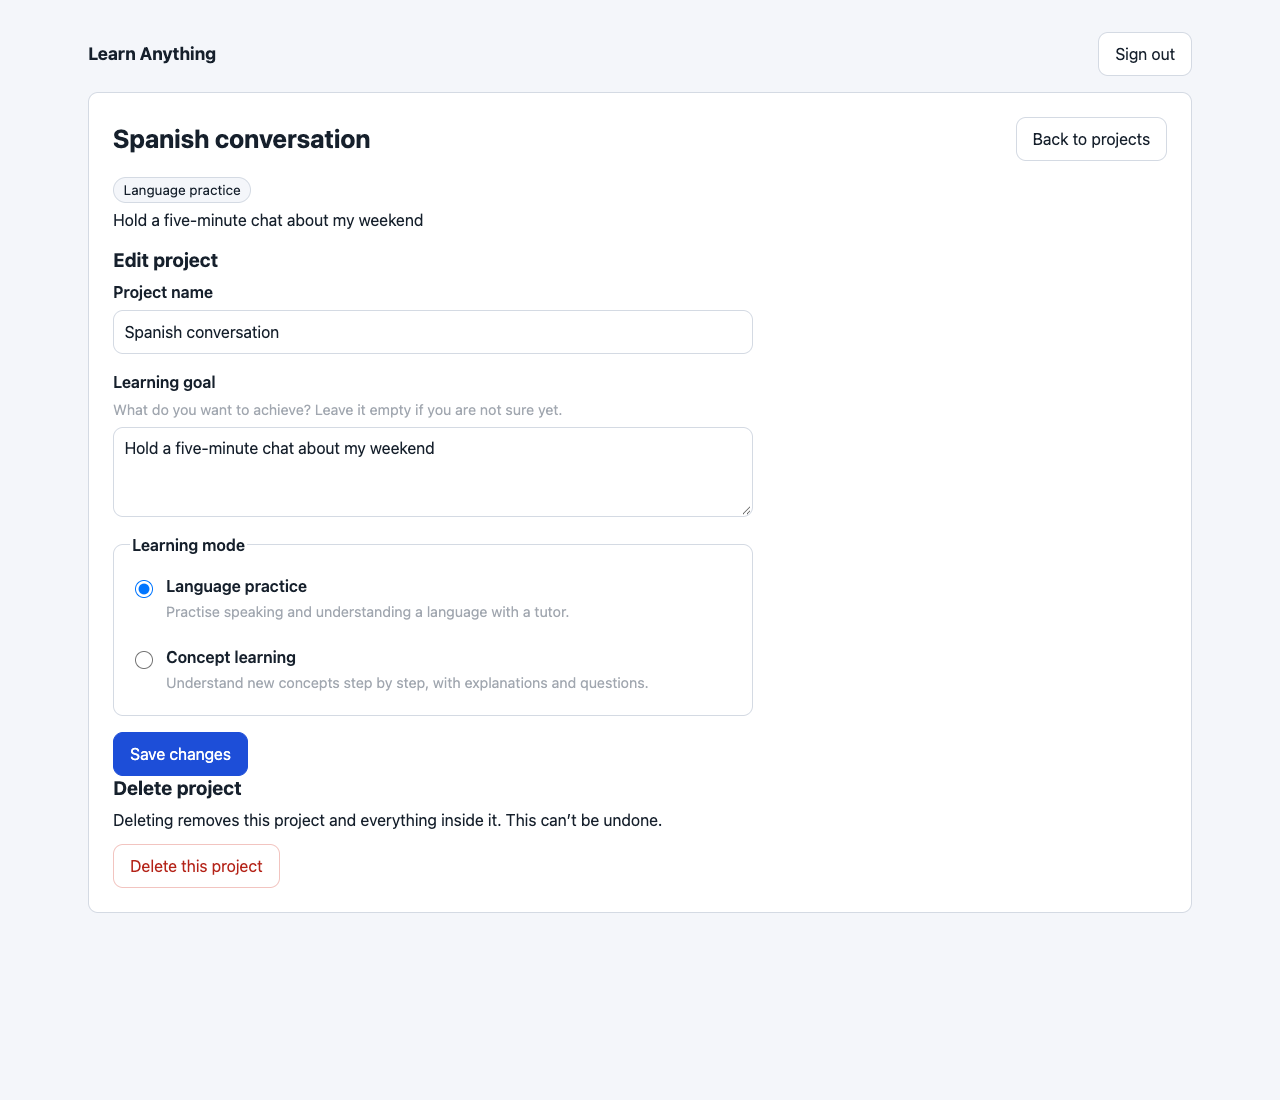
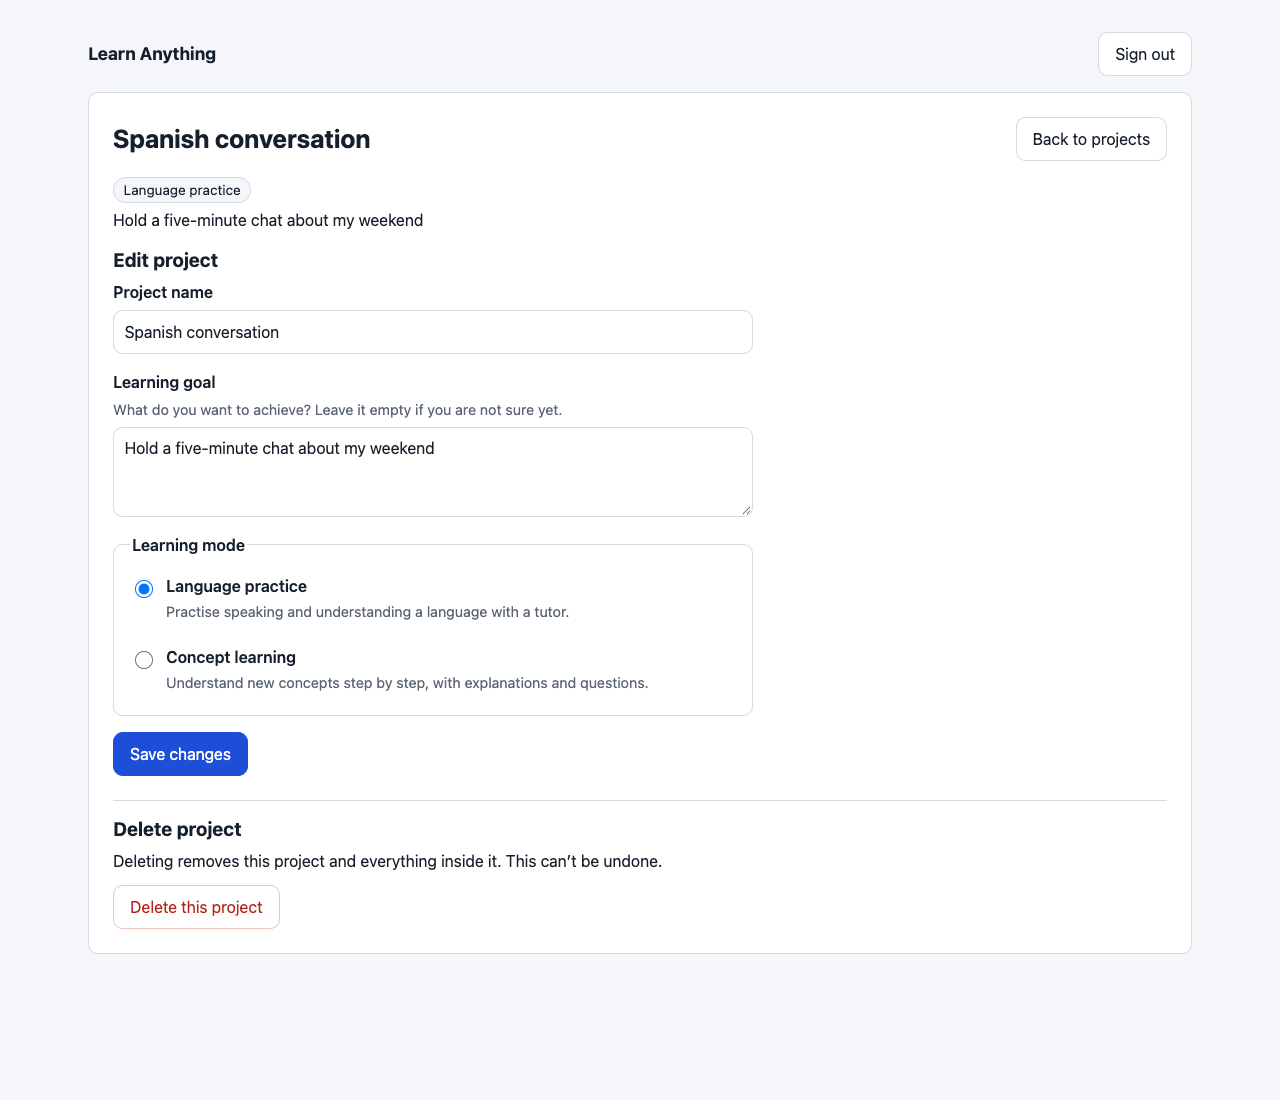
style: raise hint contrast to WCAG AA and separate the delete section
--ink-soft becomes the opaque #5a6473 (5.99:1 on white, 5.54:1 on the sunken surface, guarded by a contrast test) and the Delete-project heading moves into a bordered .danger-zone block so it is no longer cramped against the edit form. Synthetic preview screenshots in docs/evidence/s21 are refreshed.

Changed region(s): [[0.0938, 0.7109, 0.5, 0.8345], [0.125, 0.6182, 0.5, 0.6491], [0.25, 0.3709, 0.3125, 0.4018]]

diff --git a/packages/app/tests/style-contrast.test.ts b/packages/app/tests/style-contrast.test.ts
@@ -1,0 +1,42 @@
+import { readFileSync } from "node:fs";
+import { dirname, join } from "node:path";
+import { fileURLToPath } from "node:url";
+
+import { expect, test } from "vitest";
+
+const css = readFileSync(join(dirname(fileURLToPath(import.meta.url)), "..", "src", "styles.css"), "utf8");
+
+function variable(name: string): string {
+  const match = new RegExp(`--${name}:\\s*([^;]+);`).exec(css);
+  if (match === null) throw new Error(`styles.css is missing --${name}`);
+  return match[1].trim();
+}
+
+function toRgb(value: string): [number, number, number] {
+  const hex = /^#([0-9a-f]{6})$/i.exec(value);
+  if (hex === null) throw new Error(`expected one opaque 6-digit colour, got "${value}" (alpha would silently weaken contrast)`);
+  const packed = Number.parseInt(hex[1], 16);
+  return [(packed >> 16) & 255, (packed >> 8) & 255, packed & 255];
+}
+
+function luminance(rgb: [number, number, number]): number {
+  const channel = (value: number): number => {
+    const c = value / 255;
+    return c <= 0.03928 ? c / 12.92 : ((c + 0.055) / 1.055) ** 2.4;
+  };
+  return 0.2126 * channel(rgb[0]) + 0.7152 * channel(rgb[1]) + 0.0722 * channel(rgb[2]);
+}
+
+function contrast(a: string, b: string): number {
+  const la = luminance(toRgb(a));
+  const lb = luminance(toRgb(b));
+  const [high, low] = la > lb ? [la, lb] : [lb, la];
+  return (high + 0.05) / (low + 0.05);
+}
+
+test("hint text meets WCAG AA (>= 4.5:1) on every surface it sits on", () => {
+  const hint = variable("ink-soft");
+  for (const surface of ["surface", "surface-sunken"]) {
+    expect(contrast(hint, variable(surface)), `--ink-soft on --${surface}`).toBeGreaterThanOrEqual(4.5);
+  }
+});

diff --git a/packages/app/src/screens/ProjectDetail.tsx b/packages/app/src/screens/ProjectDetail.tsx
@@ -142,18 +142,20 @@ export function ProjectDetail({ id }: { id: string }) {
         </p>
       )}
 
-      <h2>Delete project</h2>
-      <p className="screen-intro">Deleting removes this project and everything inside it. This can’t be undone.</p>
-      <button
-        type="button"
-        className="button button-danger"
-        onClick={() => {
-          setDeleteError(null);
-          setDeleteOpen(true);
-        }}
-      >
-        Delete this project
-      </button>
+      <section className="danger-zone" aria-labelledby="delete-project-heading">
+        <h2 id="delete-project-heading">Delete project</h2>
+        <p className="screen-intro">Deleting removes this project and everything inside it. This can’t be undone.</p>
+        <button
+          type="button"
+          className="button button-danger"
+          onClick={() => {
+            setDeleteError(null);
+            setDeleteOpen(true);
+          }}
+        >
+          Delete this project
+        </button>
+      </section>
 
       <ConfirmDelete open={deleteOpen} projectName={project.name} busy={deleteBusy} error={deleteError} onCancel={cancelDelete} onConfirm={handleDelete} />
     </section>

diff --git a/packages/app/src/styles.css b/packages/app/src/styles.css
@@ -3,7 +3,8 @@
 :root {
   color-scheme: light;
   --ink: #16202c;
-  --ink-soft: #44506180;
+  /* Opaque, >= 4.5:1 on both --surface and --surface-sunken (WCAG AA for normal text). */
+  --ink-soft: #5a6473;
   --surface: #ffffff;
   --surface-sunken: #f4f6fa;
   --line: #d4dae3;
@@ -263,6 +264,13 @@ a {
   flex-direction: column;
   gap: 0.35rem;
   margin-bottom: 1rem;
+}
+
+/* Destructive block: visually and structurally separated from the edit form. */
+.danger-zone {
+  margin-top: 1.5rem;
+  padding-top: 1rem;
+  border-top: 1px solid var(--line);
 }
 
 /* Forms */
